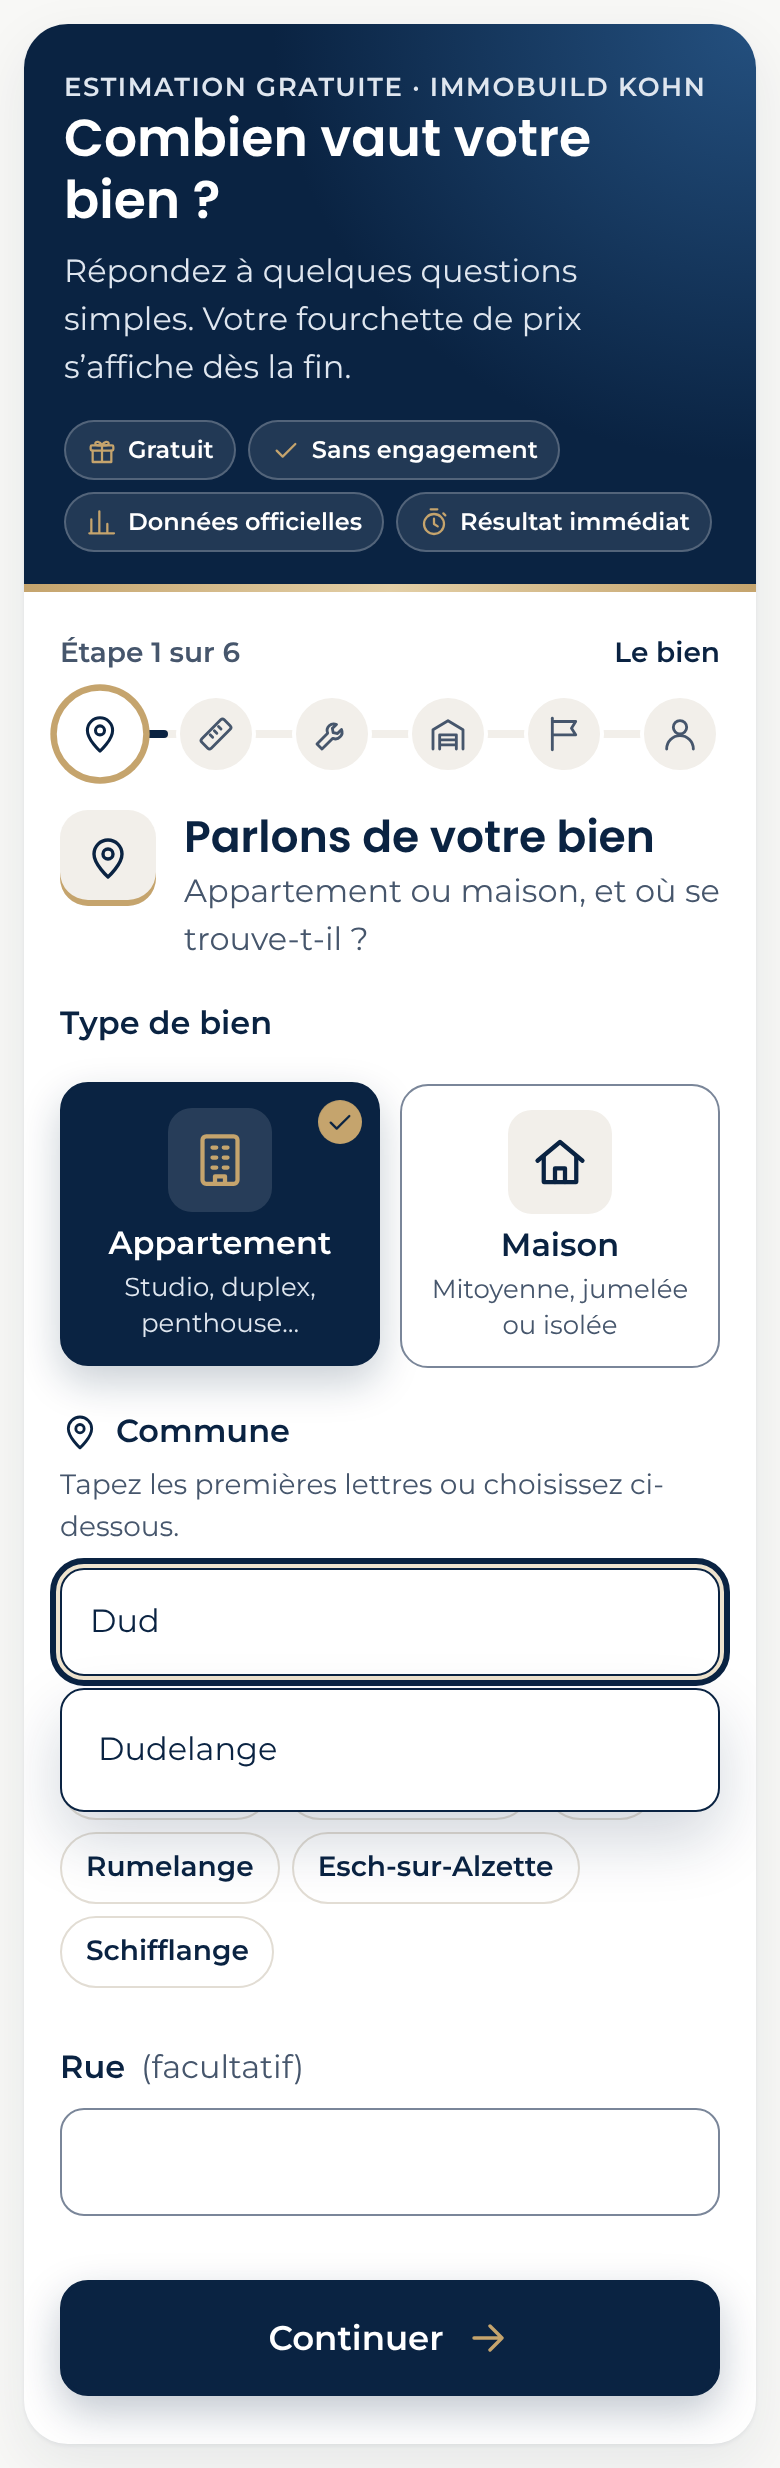
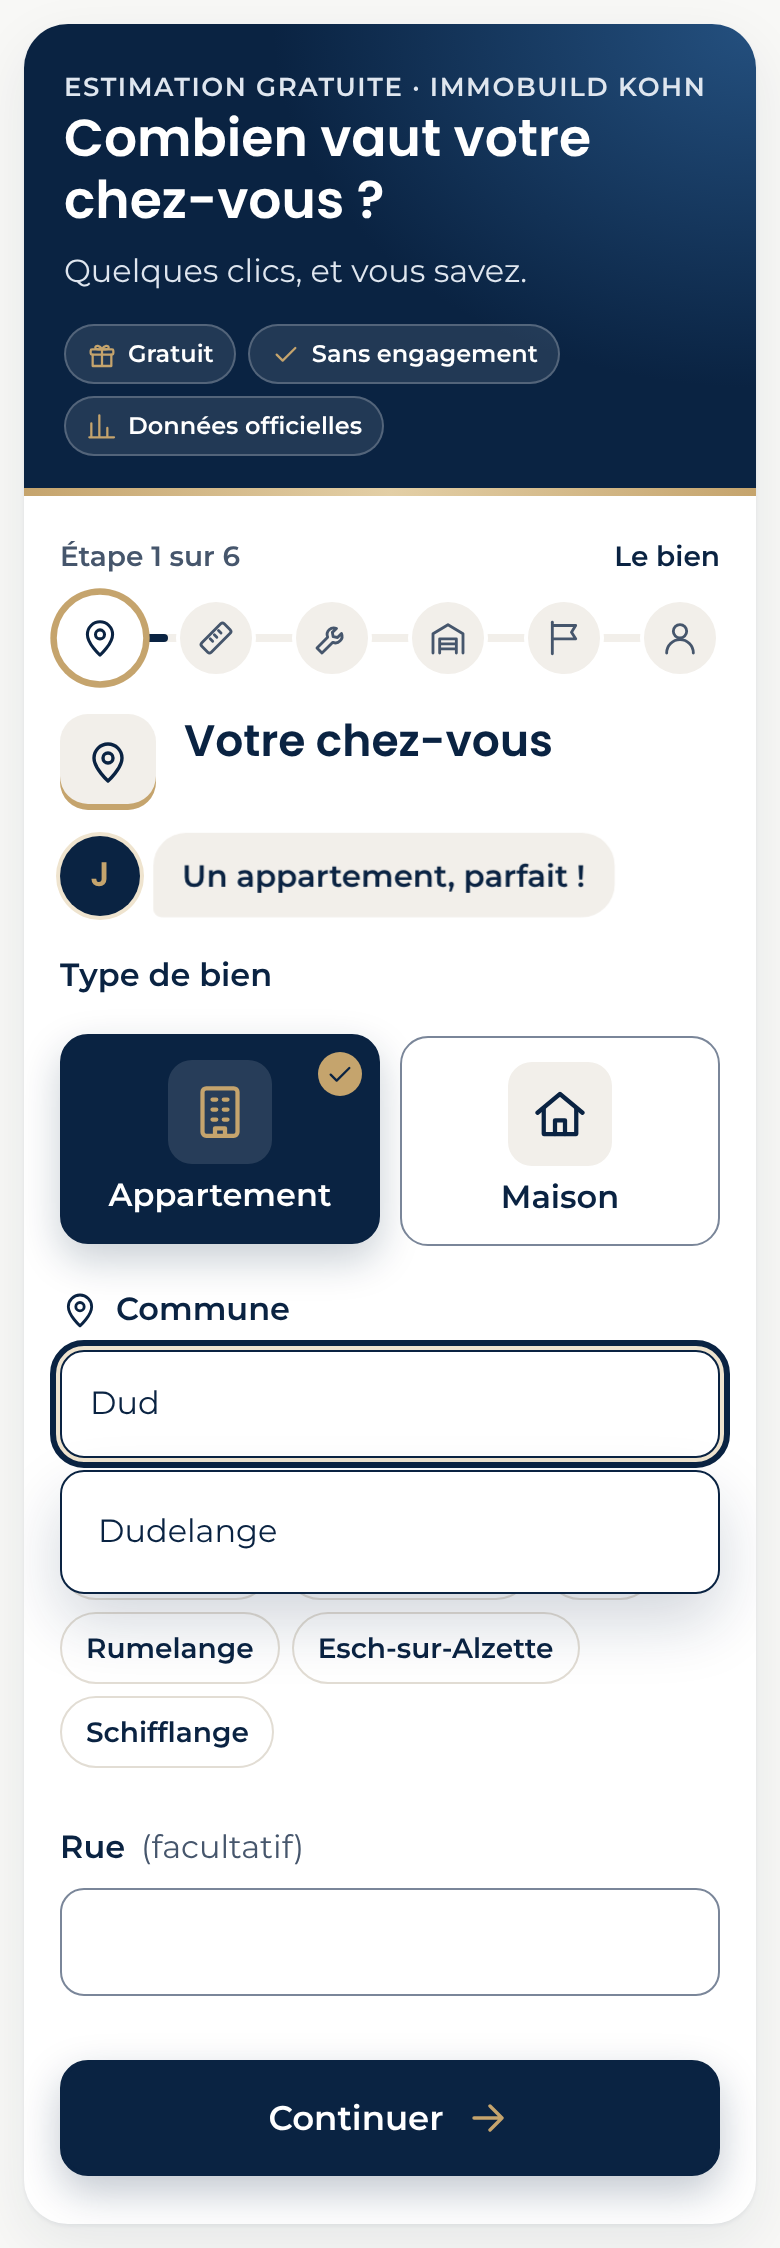
estimation-widget: moins de texte, plus d'émotion
- textes raccourcis et plus chaleureux en FR/DE/EN : −24 % de mots visibles
  (−42 % sur les coordonnées, −30 % sur l'étape 2)
- bulle de Jay sous chaque titre : un mot par étape et des réactions aux
  réponses (type, commune, énergie, garage, jardin, projet…)
- aides transformées en exemples dans les champs, sous-textes des choix
  supprimés, récapitulatif replié, engagements sur une ligne
- résultat : « Voilà votre estimation ! », confettis dorés (coupés si le
  visiteur réduit les animations), fiabilité sur une ligne
- 45 tests, 0 erreur axe-core

Claude-Session: https://claude.ai/code/session_01846hvutoHPqEEd264myZJw

diff --git a/estimation-widget/src/ui/steps.ts b/estimation-widget/src/ui/steps.ts
@@ -133,7 +133,7 @@ function toggle(ctx: Ctx, name: string, label: string, hint: string, ico: string
   <input type="checkbox" id="${name}" name="${name}"${ctx.v[name] === true ? ' checked' : ''}>
   <span class="toggle-box">
     <span class="option-icon">${icon(ico)}</span>
-    <span class="option-text"><span class="option-label">${esc(label)}</span><span class="option-hint">${esc(hint)}</span></span>
+    <span class="option-text"><span class="option-label">${esc(label)}</span>${hint ? `<span class="option-hint">${esc(hint)}</span>` : ''}</span>
     <span class="switch" aria-hidden="true"></span>
   </span>
 </label>`;
@@ -186,8 +186,8 @@ function recapCard(ctx: Ctx): string {
     v.jardin === true && t('fields.jardin'),
   ]);
   line(5, [t(`fields.objectifOptions.${v.objectif}`), t(`fields.delaiOptions.${v.delai}`)]);
-  return `<section class="recap" aria-labelledby="recap-title">
-  <h3 id="recap-title">${icon(v.type === 'maison' ? 'maison' : 'appartement')}<span>${esc(t('recap.title'))}</span></h3>
+  return `<details class="recap">
+  <summary>${icon(v.type === 'maison' ? 'maison' : 'appartement')}<span>${esc(t('recap.title'))}</span></summary>
   <ul>
     ${rows
       .map(
@@ -195,7 +195,7 @@ function recapCard(ctx: Ctx): string {
       )
       .join('')}
   </ul>
-</section>`;
+</details>`;
 }
 
 /* ---------- Étapes ---------- */
@@ -203,12 +203,11 @@ function recapCard(ctx: Ctx): string {
 function step1(ctx: Ctx): string {
   const { t, v } = ctx;
   const canton = COMMUNES.find((c) => c.name === v.commune)?.canton;
-  return `${choices(ctx, 'type', t('fields.type'), opts(t, 'fields.typeOptions', ['appartement', 'maison'], { appartement: 'appartement', maison: 'maison' }, 'fields.typeHints'), 'tiles')}
+  return `${choices(ctx, 'type', t('fields.type'), opts(t, 'fields.typeOptions', ['appartement', 'maison'], { appartement: 'appartement', maison: 'maison' }), 'tiles')}
 <div class="field combobox${hasErr(ctx, 'commune')}" data-field="commune">
   <label for="commune" id="commune-label">${icon('epingle', 'ico ico-label')}<span>${esc(t('fields.commune'))}</span></label>
-  <p class="help" id="commune-help">${esc(t('fields.communeHelp'))}</p>
   <div class="combo">
-    <input type="text" id="commune" name="commune" value="${esc(v.commune ?? '')}" role="combobox" aria-autocomplete="list" aria-expanded="false" aria-controls="commune-list" autocomplete="off" spellcheck="false" aria-required="true"${invalid(ctx, 'commune')}${describedBy(ctx, 'commune', true)}>
+    <input type="text" id="commune" name="commune" value="${esc(v.commune ?? '')}" role="combobox" aria-autocomplete="list" aria-expanded="false" aria-controls="commune-list" autocomplete="off" spellcheck="false" placeholder="${esc(t('fields.communePlaceholder'))}" aria-required="true"${invalid(ctx, 'commune')}${describedBy(ctx, 'commune', false)}>
     <ul id="commune-list" role="listbox" aria-labelledby="commune-label" hidden></ul>
   </div>
   <p class="commune-canton" id="commune-canton" aria-live="polite">${canton ? `${icon('check', 'ico ico-xs')}${esc(t('fields.communeSelected', { deCanton: deCanton(canton, ctx.lang) }))}` : ''}</p>
@@ -257,13 +256,13 @@ function step2(ctx: Ctx): string {
   ${stepper(ctx, 'chambres', t('fields.chambres'), LIMITS.chambres)}
   ${stepper(ctx, 'sdb', t('fields.sdb'), { min: 0, max: LIMITS.sdb.max })}
 </div>
-${input(ctx, 'annee', t('fields.annee'), { help: t('fields.anneeHelp'), inputmode: 'numeric', placeholder: t('fields.anneePlaceholder'), maxlength: 4 })}
-${choices(ctx, 'etat', t('fields.etat'), opts(t, 'fields.etatOptions', ETATS, ETAT_ICONS, 'fields.etatHints'), 'list')}
+${input(ctx, 'annee', t('fields.annee'), { inputmode: 'numeric', placeholder: t('fields.anneePlaceholder'), maxlength: 4 })}
+${choices(ctx, 'etat', t('fields.etat'), opts(t, 'fields.etatOptions', ETATS, ETAT_ICONS), 'list')}
 ${energyScale(ctx)}
 ${
   house
     ? `${choices(ctx, 'maisonType', t('fields.maisonType'), opts(t, 'fields.maisonTypeOptions', MAISON_TYPES, { mitoyenne: 'mitoyenne', jumelee: 'jumelee', isolee: 'isolee' }), 'tiles')}
-${slider(ctx, 'terrain', t('fields.terrain'), t('fields.terrainSlider'), { min: 0, max: 2000, step: 10, help: t('fields.terrainHelp'), ico: 'jardin' })}`
+${slider(ctx, 'terrain', t('fields.terrain'), t('fields.terrainSlider'), { min: 0, max: 2000, step: 10, ico: 'jardin' })}`
     : `${choices(ctx, 'etage', t('fields.etage'), ['0', '1', '2', '3', '4', '5'].map((value) => ({ value, label: t(`fields.etageChips.${value}`) })), 'chips', 'escalier')}
 ${choices(ctx, 'ascenseur', t('fields.ascenseur'), [{ value: 'oui', label: t('yes') }, { value: 'non', label: t('no') }], 'chips', 'ascenseur')}`
 }`;
@@ -302,10 +301,10 @@ function step4(ctx: Ctx): string {
   ${stepper(ctx, 'parkings', t('fields.parkings'), LIMITS.parkings, 'parking')}
 </div>
 <div class="toggles">
-  ${toggle(ctx, 'cave', t('fields.cave'), t('fields.caveHint'), 'cave')}
-  ${toggle(ctx, 'jardin', t('fields.jardin'), t('fields.jardinHint'), 'jardin')}
+  ${toggle(ctx, 'cave', t('fields.cave'), '', 'cave')}
+  ${toggle(ctx, 'jardin', t('fields.jardin'), '', 'jardin')}
 </div>
-${slider(ctx, 'terrasse', t('fields.terrasse'), t('fields.terrasseSlider'), { min: 0, max: v.type === 'maison' ? 150 : 60, step: 1, help: t('fields.terrasseHelp'), ico: 'terrasse' })}`;
+${slider(ctx, 'terrasse', t('fields.terrasse'), t('fields.terrasseSlider'), { min: 0, max: v.type === 'maison' ? 150 : 60, step: 1, ico: 'terrasse' })}`;
 }
 
 function step5(ctx: Ctx): string {
@@ -314,7 +313,7 @@ function step5(ctx: Ctx): string {
     { value: 'oui', label: t('fields.proprietaireOptions.oui'), icon: 'cle' },
     { value: 'non', label: t('fields.proprietaireOptions.non'), icon: 'personne' },
   ], 'tiles')}
-${choices(ctx, 'objectif', t('fields.objectif'), opts(t, 'fields.objectifOptions', OBJECTIFS, OBJECTIF_ICONS, 'fields.objectifHints'), 'list')}
+${choices(ctx, 'objectif', t('fields.objectif'), opts(t, 'fields.objectifOptions', OBJECTIFS, OBJECTIF_ICONS), 'tiles')}
 ${choices(ctx, 'delai', t('fields.delai'), opts(t, 'fields.delaiOptions', DELAIS, DELAI_ICONS), 'tiles')}`;
 }
 
@@ -330,7 +329,6 @@ function step6(ctx: Ctx): string {
 ${input(ctx, 'email', t('fields.email'), { type: 'email', autocomplete: 'email', inputmode: 'email', maxlength: 254 })}
 <fieldset class="field phone${phoneErr ? ' has-error' : ''}" data-field="numero">
   <legend><span>${esc(t('fields.telephone'))}</span></legend>
-  <p class="help" id="numero-help">${esc(t('fields.numeroHelp'))}</p>
   <div class="phone-row">
     <div class="phone-code">
       <label for="indicatif" class="sr-only">${esc(t('fields.indicatif'))}</label>
@@ -340,7 +338,7 @@ ${input(ctx, 'email', t('fields.email'), { type: 'email', autocomplete: 'email',
     </div>
     <div class="phone-number">
       <label for="numero" class="sr-only">${esc(t('fields.numero'))}</label>
-      <input type="tel" id="numero" name="numero" value="${esc(ctx.v.numero ?? '')}" autocomplete="tel-national" inputmode="tel" maxlength="20" aria-required="true"${invalid(ctx, 'numero')}${describedBy(ctx, 'numero', true)}>
+      <input type="tel" id="numero" name="numero" value="${esc(ctx.v.numero ?? '')}" autocomplete="tel-national" inputmode="tel" maxlength="20" placeholder="${esc(t('fields.numeroPlaceholder'))}" aria-required="true"${invalid(ctx, 'numero')}${describedBy(ctx, 'numero', false)}>
     </div>
   </div>
   ${errorMessage(ctx, 'numero')}
@@ -361,11 +359,7 @@ ${input(ctx, 'email', t('fields.email'), { type: 'email', autocomplete: 'email',
   </label>
   ${errorMessage(ctx, 'rgpd')}
 </div>
-<ul class="trust">
-  <li>${icon('cadeau', 'ico ico-sm')}<span>${esc(t('trust.free'))}</span></li>
-  <li>${icon('bouclier', 'ico ico-sm')}<span>${esc(t('trust.data'))}</span></li>
-  <li>${icon('check', 'ico ico-sm')}<span>${esc(t('trust.cookies'))}</span></li>
-</ul>`;
+<p class="trust">${icon('bouclier', 'ico ico-sm')}<span>${esc(t('trust.line'))}</span></p>`;
 }
 
 const STEPS = [step1, step2, step3, step4, step5, step6];

diff --git a/estimation-widget/src/styles.css b/estimation-widget/src/styles.css
@@ -347,7 +347,7 @@ input[type='text']:focus, input[type='email']:focus, input[type='tel']:focus, se
 @media (min-width: 560px) { .value-amount { font-size: 1.5rem; } }
 .value-text { color: var(--muted); font-size: 0.8125rem; line-height: 1.35; }
 
-.reliability { display: flex; gap: 10px; align-items: flex-start; margin-top: 10px !important; padding: 8px 12px; border-radius: var(--radius); background: var(--offwhite); font-size: 0.8125rem; line-height: 1.4; }
+.reliability { display: flex; gap: 10px; align-items: center; margin-top: 10px !important; padding: 8px 12px; border-radius: var(--radius); background: var(--offwhite); font-size: 0.8125rem; line-height: 1.4; }
 .reliability p { margin: 0; color: var(--muted); }
 .reliability strong { color: var(--navy); }
 .rel-bars { display: flex; gap: 3px; align-items: flex-end; height: 22px; margin-top: 2px; }
@@ -512,3 +512,55 @@ input[type='text']:focus, input[type='email']:focus, input[type='tel']:focus, se
 .teaser .ico:first-child { color: var(--gold); }
 .teaser .teaser-arrow { margin-left: auto; transform: rotate(-90deg); }
 @media print { .teaser { display: none; } }
+
+/* ---------- Bulle de Jay ---------- */
+.step-head { margin-bottom: 12px; }
+.coach { display: flex; align-items: flex-end; gap: 10px; margin: 0 0 18px; }
+.avatar-sm { width: 40px; height: 40px; font-size: 1.0625rem; box-shadow: 0 0 0 2px var(--gold-soft); }
+.coach-bubble { position: relative; margin: 0; padding: 10px 14px; border-radius: 16px 16px 16px 4px; background: var(--beige); font-weight: 600; font-size: 0.9375rem; line-height: 1.4; }
+.coach-bubble.pop { animation: bubble 0.45s var(--ease); }
+@keyframes bubble { 0% { transform: scale(0.92) translateY(4px); opacity: 0.4; } 60% { transform: scale(1.03); opacity: 1; } 100% { transform: none; } }
+
+/* Récapitulatif replié */
+details.recap { padding: 0; }
+details.recap summary { display: flex; align-items: center; gap: 8px; min-height: 48px; padding: 0 14px; font-weight: 600; cursor: pointer; list-style: none; }
+details.recap summary::-webkit-details-marker { display: none; }
+details.recap summary::after { content: '+'; margin-left: auto; font-size: 1.25rem; font-weight: 400; }
+details.recap[open] summary::after { content: '−'; }
+details.recap ul { padding: 0 14px 10px; }
+p.trust { display: flex; align-items: center; justify-content: center; gap: 8px; margin: 4px 0 0; font-size: 0.8125rem; color: var(--muted); font-weight: 500; }
+p.trust .ico { color: var(--up); }
+
+/* ---------- Confettis dorés sur le résultat ---------- */
+.result-hero { overflow: hidden; }
+.confetti { position: absolute; inset: 0; pointer-events: none; }
+.confetti i { position: absolute; top: -12px; width: 8px; height: 12px; border-radius: 2px; background: var(--gold); opacity: 0; animation: confetti 2.4s cubic-bezier(0.25, 0.6, 0.4, 1) forwards; }
+.confetti i:nth-child(3n) { background: #e3cfa6; width: 6px; height: 10px; }
+.confetti i:nth-child(4n) { background: #ffffff; width: 5px; height: 8px; border-radius: 50%; }
+.confetti i:nth-child(1) { left: 6%; animation-delay: 0.05s; }
+.confetti i:nth-child(2) { left: 13%; animation-delay: 0.3s; }
+.confetti i:nth-child(3) { left: 20%; animation-delay: 0.15s; }
+.confetti i:nth-child(4) { left: 27%; animation-delay: 0.45s; }
+.confetti i:nth-child(5) { left: 33%; animation-delay: 0s; }
+.confetti i:nth-child(6) { left: 40%; animation-delay: 0.35s; }
+.confetti i:nth-child(7) { left: 46%; animation-delay: 0.1s; }
+.confetti i:nth-child(8) { left: 52%; animation-delay: 0.5s; }
+.confetti i:nth-child(9) { left: 58%; animation-delay: 0.2s; }
+.confetti i:nth-child(10) { left: 64%; animation-delay: 0.4s; }
+.confetti i:nth-child(11) { left: 70%; animation-delay: 0.05s; }
+.confetti i:nth-child(12) { left: 76%; animation-delay: 0.3s; }
+.confetti i:nth-child(13) { left: 82%; animation-delay: 0.15s; }
+.confetti i:nth-child(14) { left: 88%; animation-delay: 0.45s; }
+.confetti i:nth-child(15) { left: 94%; animation-delay: 0.25s; }
+.confetti i:nth-child(16) { left: 10%; animation-delay: 0.6s; }
+.confetti i:nth-child(17) { left: 50%; animation-delay: 0.7s; }
+.confetti i:nth-child(18) { left: 90%; animation-delay: 0.65s; }
+.confetti i:nth-child(odd) { --drift: 24px; --spin: 540deg; }
+.confetti i:nth-child(even) { --drift: -20px; --spin: -420deg; }
+@keyframes confetti {
+  0% { opacity: 0; transform: translate(0, 0) rotate(0); }
+  10% { opacity: 1; }
+  100% { opacity: 0; transform: translate(var(--drift), 260px) rotate(var(--spin)); }
+}
+@media (prefers-reduced-motion: reduce) { .confetti { display: none; } }
+@media print { .confetti { display: none; } }

diff --git a/estimation-widget/src/main.ts b/estimation-widget/src/main.ts
@@ -144,7 +144,6 @@ function render(focus = true) {
       <li>${icon('cadeau', 'ico ico-xs')}${esc(t('intro.badges.free'))}</li>
       <li>${icon('check', 'ico ico-xs')}${esc(t('intro.badges.commitment'))}</li>
       <li>${icon('donnees', 'ico ico-xs')}${esc(t('intro.badges.official'))}</li>
-      <li>${icon('asap', 'ico ico-xs')}${esc(t('intro.badges.instant'))}</li>
     </ul>
   </header>`
       : ''
@@ -158,13 +157,13 @@ function render(focus = true) {
         <span class="step-ico">${icon(STEP_ICONS[s - 1])}</span>
         <div>
           <h2 class="step-title" id="step-title" tabindex="-1">${esc(t(`steps.${s}.title`))}</h2>
-          <p class="step-text">${esc(t(`steps.${s}.text`))}</p>
+
         </div>
       </div>
+      ${coachHtml()}
       ${summary}
       ${renderStep(s, { t, lang, v: state.values, e: state.errors, privacyUrl, quickCommunes: config.quickCommunes })}
     </div>
-    ${s === TOTAL && config.agent?.name ? `<div class="agent-inline"><span class="avatar" aria-hidden="true">${esc(config.agent.name.charAt(0))}</span><p><strong>${esc(t('agent.title'))}</strong><br>${esc(t('agent.text'))}</p></div>` : ''}
     <div class="actions">
       ${
         s === TOTAL
@@ -237,6 +236,7 @@ function after(focus: boolean) {
 
 function setCommune(name: string) {
   state.values.commune = name;
+  coachSay('coach.commune', { commune: name });
   clearError('commune');
   const canton = COMMUNES.find((c) => c.name === name)?.canton;
   const out = app.querySelector('#commune-canton');
@@ -279,6 +279,35 @@ function checkOne(name: string, showNew: boolean) {
   else if (showNew || state.errors[name]) setFieldError(name, errors[name]);
 }
 
+/* ---------- Bulle de Jay : un mot par étape, et des réactions aux réponses ---------- */
+let coachText = '';
+function coachHtml(): string {
+  coachText = t(state.step === 1 ? 'coach.start' : `coach.step${state.step}`);
+  const name = config.agent?.name ?? '';
+  const avatar = config.agent?.photo ? `<img class="avatar avatar-sm" src="${esc(config.agent.photo)}" alt="" width="40" height="40">` : `<span class="avatar avatar-sm" aria-hidden="true">${esc(name.charAt(0))}</span>`;
+  return `<div class="coach">${avatar}<p class="coach-bubble" id="coach" aria-live="polite">${esc(coachText)}</p></div>`;
+}
+function coachSay(key: string, vars?: Record<string, string>) {
+  const el = app.querySelector<HTMLElement>('#coach');
+  const text = t(key, vars);
+  if (!el || text === coachText) return;
+  coachText = text;
+  el.textContent = text;
+  el.classList.remove('pop');
+  void el.offsetWidth;
+  el.classList.add('pop');
+}
+function coachReact(name: string, value: unknown) {
+  const v = String(value);
+  if (name === 'type') return coachSay(`coach.${v}`);
+  if (name === 'energie') return coachSay(['A+', 'A', 'B'].includes(v) ? 'coach.energieGood' : ['G', 'H', 'I'].includes(v) ? 'coach.energieBad' : v === 'inconnu' ? 'coach.energieUnknown' : `coach.step2`);
+  if (name.startsWith('poste_') && v === 'mauvais') return coachSay('coach.bad');
+  if ((name === 'jardin' || name === 'cave') && value === true) return coachSay(`coach.${name}`);
+  if (name === 'garages' && Number(v) > 0) return coachSay('coach.garage');
+  if (name === 'objectif') return coachSay(`coach.${v}`);
+  if (name === 'proprietaire' && v === 'non') return coachSay('coach.nonProprio');
+}
+
 /* ---------- Saisie ---------- */
 app.addEventListener('input', onInput);
 app.addEventListener('change', onInput);
@@ -300,6 +329,7 @@ function onInput(e: Event) {
   else if (el instanceof HTMLInputElement && el.type === 'radio') {
     if (el.checked) state.values[el.name] = el.value;
   } else state.values[el.name] = el.value;
+  if (e.type === 'change') coachReact(el.name, state.values[el.name]);
 
   // Curseur lié à un champ numérique
   const range = app.querySelector<HTMLInputElement>(`input[type="range"][data-sync="${el.name}"]`);
@@ -333,6 +363,7 @@ app.addEventListener('click', (e) => {
     void input.offsetWidth;
     input.classList.add('bump');
     checkOne(name, false);
+    coachReact(name, next);
     return;
   }
 
@@ -352,6 +383,7 @@ app.addEventListener('click', (e) => {
       state.values[r.name] = val;
       clearError(r.name);
     });
+    coachSay('coach.allGood');
     return;
   }
 

diff --git a/estimation-widget/src/ui/result.ts b/estimation-widget/src/ui/result.ts
@@ -119,13 +119,14 @@ export function renderResult(r: PublicResult, t: T, lang: Lang, opts: ResultOpti
   const reliability = rel
     ? `<div class="reliability rel-${rel}">
     <span class="rel-bars" aria-hidden="true"><i></i><i></i><i></i></span>
-    <p><strong>${esc(t('result.reliabilityTitle'))} : ${esc(t(`result.reliability.${rel}`))}</strong><br>${esc(relText)}</p>
+    <p><strong>${esc(t('result.reliabilityTitle'))} : ${esc(t(`result.reliability.${rel}`))}</strong></p>
   </div>`
     : '';
 
   const how = `<details class="how">
     <summary>${icon('info', 'ico ico-sm')}<span>${esc(t('result.howTitle'))}</span></summary>
     <p>${esc(t(r.type === 'maison' ? 'result.howMaison' : 'result.howAppartement'))}</p>
+    ${relText ? `<p><strong>${esc(t('result.reliabilityTitle'))} : ${esc(t(`result.reliability.${rel}`))}.</strong> ${esc(relText)}</p>` : ''}
     ${
       r.methods?.length
         ? `<ul>${r.methods
@@ -137,6 +138,7 @@ export function renderResult(r: PublicResult, t: T, lang: Lang, opts: ResultOpti
 
   return `<section class="result" aria-labelledby="result-title">
   <div class="result-hero">
+    <div class="confetti" aria-hidden="true">${'<i></i>'.repeat(18)}</div>
     <p class="sent-note">${icon('check', 'ico ico-xs')}<span>${esc(t('result.sent'))}</span></p>
     <h2 id="result-title" class="step-title" tabindex="-1">${esc(t('result.ready'))}</h2>
     <p class="hero-meta">${esc(t('result.subtitle', { type: typeLabel, commune: r.commune }))}${r.surface ? ` · ${r.surface} m²` : ''}</p>
